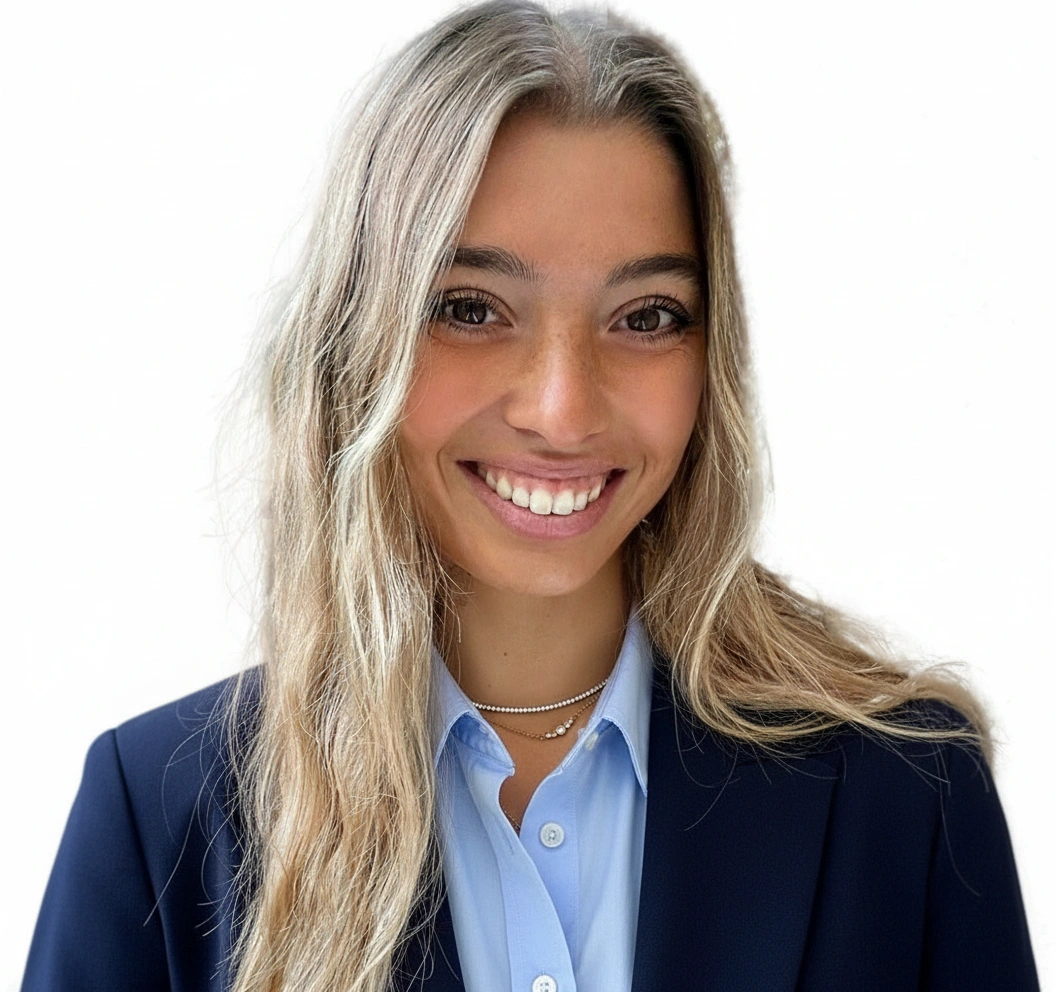
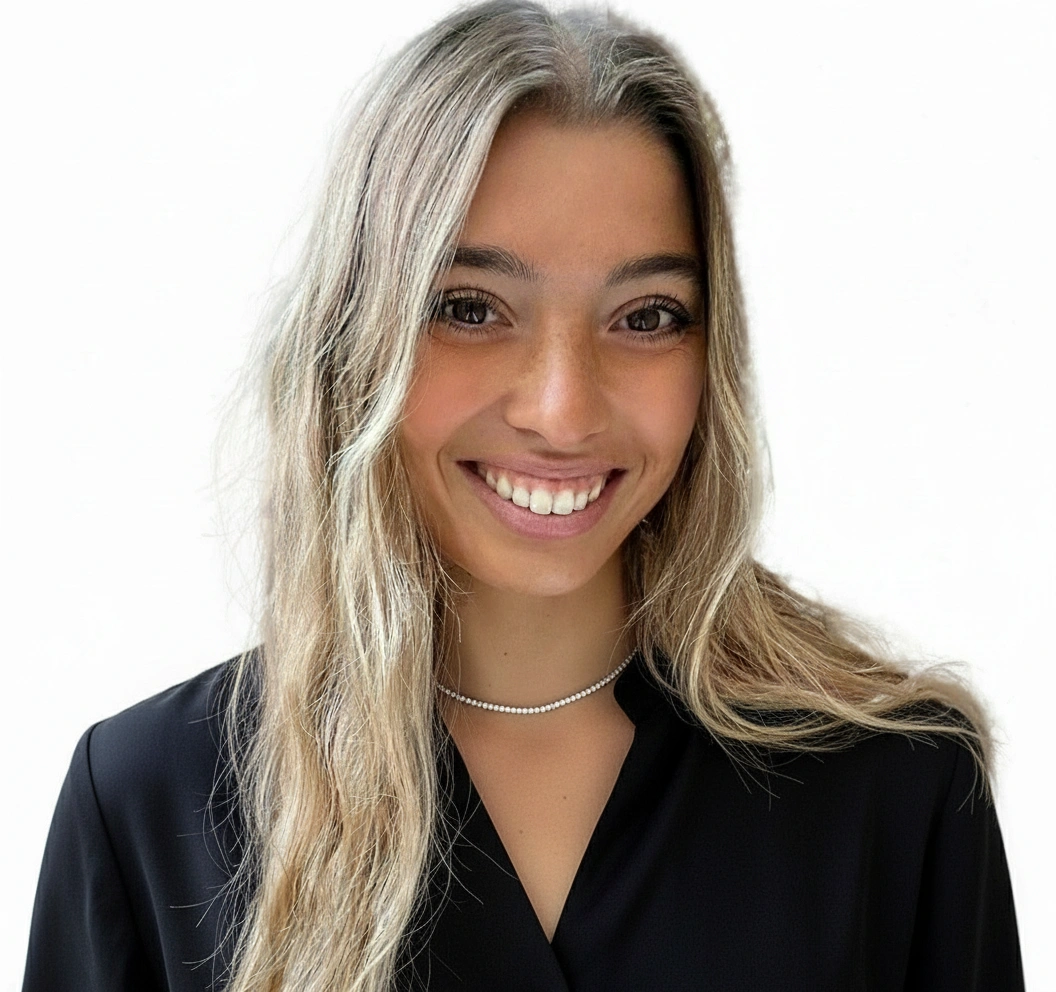
Refactor About and Experience components; update profile image and skills categories

diff --git a/src/components/Experience.jsx b/src/components/Experience.jsx
@@ -1,46 +1,113 @@
 import React from "react";
 import { motion } from "framer-motion";
 
-const experiences = [
+const roles = [
+  { title: "Sr. Software Engineer · Nomura", date: "Oct 2025 – Present" },
+  { title: "Graduate Software Engineer · Nomura", date: "Jul 2024 – Sep 2025" },
+  { title: "Technology Industrial Placement Intern · Nomura", date: "Jun 2022 – Jun 2023" }
+];
+
+const details = [
+  "Develop and maintain a Risk & Trading platform using Python and VBA backends integrated with Excel frontends.",
+  "Enhance Access Control services (Python backend, React frontend) and migrate legacy VB6 components to Python.",
+  "Lead development of a Generative AI solution that automates investor credit reports and improves risk management workflows.",
+  "Deliver high-quality, tested, and documented code across distributed systems and production environments.",
+  "Collaborate in Agile, globally distributed teams using Jira, Git, and CI/CD pipelines."
+];
+
+const education = [
   {
-    role: "Graduate Software Engineer · Nomura",
-    location: "London, UK",
-    date: "Jul 2024 – Present",
+    degree: "BSc (Hons) in Computer Science with Industrial Placement",
+    institution: "Newcastle University",
+    location: "Newcastle, UK",
+    date: "Sep 2020 – Jun 2024",
     details: [
-      "Develop and maintain a Risk & Trading platform (Python backend, VBA & Excel frontends).",
-      "Enhance Access Control services (Python backend, React frontend); migrate legacy VB6 components to Python.",
-      "Production support, code reviews, and Agile collaboration with global teams (Jira, Git)."
+      "First Class Honours · Sage & School of Computing Prize — Best Overall Performance (Stage 3)",
+      "Major Project: INFORM — AI-based food recognition & segmentation (Grade: 90/100)",
+      "Publication: SPIE Optics + Photonics 2024, San Diego, US"
     ]
   },
   {
-    role: "Technology Industrial Placement Intern · Nomura",
-    location: "London, UK",
-    date: "Jun 2022 – Jun 2023",
+    degree: "Título de Bachillerato — Science Track (Maths, Physics, IT, Technical Drawing)",
+    institution: "Madre Alberta School",
+    location: "Majorca, Spain",
+    date: "Sep 2019 – Jun 2020",
     details: [
-      "Backend/frontend improvements, production support, and Agile delivery."
+      "Bachillerato Average: 9.6/10 · University Entrance Grade (PBAU): 13.16/14"
+    ]
+  },
+  {
+    degree: "Academic Year Abroad — Amancio Ortega Foundation Scholar",
+    institution: "Liverpool Regional High School",
+    location: "Nova Scotia, Canada",
+    date: "Sep 2018 – Jun 2019",
+    details: [
+      "Full grant recipient under the Amancio Ortega Foundation Scholarship Program.",
+      "Ranked #1 in Grade 11 · First Class Honours Certificate (9.3/10)."
     ]
   }
 ];
 
+const achievements = [
+  "Sage & School of Computing Prize — Best Overall Performance (Stage 3), Newcastle University (2024)",
+  "Amancio Ortega Foundation Scholarship — Full grant to study in Canada (2018/19)",
+  "Team Full Royals Award — BUCS Conference Cup Champion, Newcastle University (2024)",
+  "Balearic Islands Basketball Teams — U14 (2016), U16 (2018), U22 (2023)",
+  "The Charles Ernst Award (MVP Girls Basketball) — Liverpool Regional High School (2019)",
+  "Academic Honours Certificate — Outstanding Academic Achievement, Balearic Islands Government (2018)",
+  "Summer Scientific Campus Scholarship in Artificial Intelligence, University of Salamanca — Spanish Government (2018)"
+];
+
 const Experience = () => (
   <motion.section
+    id="experience & education"
     className="bg-gray-100 rounded-xl shadow p-6"
     initial={{ opacity: 0, y: 20 }}
     whileInView={{ opacity: 1, y: 0 }}
     viewport={{ once: true }}
     transition={{ duration: 0.6 }}
   >
-    <h2 className="text-2xl font-bold mb-4 text-center">Experience</h2>
-    <div className="w-40 h-0.5 bg-gray-300 mx-auto mb-6 rounded text-justify"></div>
-    {experiences.map((exp, i) => (
-      <div key={i} className="mb-4">
-        <h3 className="font-semibold ">{exp.role}</h3>
-        <p className="text-gray-500 text-sm">{exp.location} · {exp.date}</p>
-        <ul className="list-disc list-inside mt-2 text-justify">
-          {exp.details.map((d, idx) => <li key={idx}>{d}</li>)}
-        </ul>
+    <h2 className="text-2xl font-bold mb-4 text-center">Experience & Education</h2>
+    <div className="w-40 h-0.5 bg-gray-300 mx-auto mb-6 rounded"></div>
+
+    {/* NOMURA EXPERIENCE */}
+    <div className="mb-8">
+      <h3 className="text-xl font-semibold mb-3">Professional Experience</h3>
+
+      <div className="mb-3">
+        {roles.map((r, i) => (
+          <p key={i} className="text-gray-700">
+            <strong>{r.title}</strong> · <span className="text-gray-500">{r.date}</span>
+          </p>
+        ))}
       </div>
-    ))}
+
+      <ul className="list-disc list-inside mt-2 text-gray-700 leading-relaxed text-justify">
+        {details.map((d, idx) => <li key={idx}>{d}</li>)}
+      </ul>
+    </div>
+
+    {/* EDUCATION */}
+    <div className="mb-8">
+      <h3 className="text-xl font-semibold mb-3">Education</h3>
+      {education.map((edu, i) => (
+        <div key={i} className="mb-4">
+          <h4 className="font-semibold">{edu.degree}</h4>
+          <p className="text-gray-500 text-sm">{edu.institution} — {edu.location} · {edu.date}</p>
+          <ul className="list-disc list-inside mt-2 text-gray-700 leading-relaxed text-justify">
+            {edu.details.map((d, idx) => <li key={idx}>{d}</li>)}
+          </ul>
+        </div>
+      ))}
+    </div>
+
+    {/* ACHIEVEMENTS */}
+    <div>
+      <h3 className="text-xl font-semibold mb-3">Awards & Achievements</h3>
+      <ul className="list-disc list-inside text-gray-700 leading-relaxed text-justify">
+        {achievements.map((a, i) => <li key={i}>{a}</li>)}
+      </ul>
+    </div>
   </motion.section>
 );
 

diff --git a/src/components/Skills.jsx b/src/components/Skills.jsx
@@ -2,47 +2,58 @@ import React from "react";
 import { motion } from "framer-motion";
 
 const skills = {
-  "Programming & Frameworks": [
+  "Programming Languages & Frameworks": [
     "Python",
-    "JavaScript (React)",
-    "Flask",
-    "VBA",
     "SQL",
+    "VBA",
+    "React",
+    "Flask",
+    "FastAPI",
     "Tkinter",
-    "Pytest"
+    "Streamlit",
+    "Gradio",
+    "SQLAlchemy"
   ],
-  "Data & ML": [
-    "NumPy",
-    "Pandas",
+  "Data Science & AI": [
     "Machine Learning",
     "Deep Learning",
     "Computer Vision",
-    "Image Processing"
+    "Image Processing",
+    "Generative AI",
+    "TensorFlow",
+    "PyTorch",
+    "Hugging Face",
+    "OpenCV",
+    "YOLO",
+    "CNN",
+    "Stable Diffusion",
+    "ControlNet",
+    "Scikit-Learn",
+    "ETL"
   ],
-  "Tools & Platforms": [
+  "Data Analysis & Visualization": [
+    "NumPy",
+    "Pandas",
+    "Matplotlib",
+    "Seaborn"
+  ],
+  "DevOps & Tools": [
     "Git",
     "GitHub",
-    "Jupyter Notebook",
-    "PyCharm",
-    "Visual Studio Code",
-    "Excel (Macros)",
+    "GitHub Actions",
     "Jira",
-    "CI/CD Pipelines"
-  ],
-  "Methodologies & Soft Skills": [
-    "Agile",
-    "Scrum",
-    "Software Testing & Documentation",
-    "Project Management",
-    "Analytical Thinking",
-    "Problem-Solving",
-    "Effective Communication",
-    "Team Collaboration"
+    "Docker",
+    "Jupyter Notebook",
+    "Google Colab",
+    "Visual Studio Code",
+    "PyCharm",
+    "Excel (Macros)"
   ]
 };
 
 const Skills = () => (
   <motion.section
+    id="skills"
     className="bg-gray-100 rounded-xl shadow p-6"
     initial={{ opacity: 0, y: 20 }}
     whileInView={{ opacity: 1, y: 0 }}

diff --git a/src/components/About.jsx b/src/components/About.jsx
@@ -27,17 +27,10 @@ const About = () => (
         <h2 className="text-2xl font-bold mb-4">About Me</h2>
         <div className="w-40 h-0.5 bg-gray-300 mb-6 rounded"></div>
         <p className="text-gray-700 leading-relaxed mb-6 text-justify">
-          Graduate Software Engineer with a <strong>First-Class Honours in Computer Science</strong> from Newcastle University.<br />
+          Sr. Software Engineer with a <strong>First-Class Honours in Computer Science</strong> from Newcastle University.<br />
           Researcher on the <strong>INFORM project</strong> — AI-based food recognition & segmentation — presented at 
           <em> SPIE Optics + Photonics 2024</em> and published in the <a href="https://doi.org/10.1117/12.3031247" className="text-blue-600 underline" target="_blank" rel="noopener noreferrer">SPIE Digital Library</a>.<br />
           Passionate about building production-ready systems that combine software engineering, AI, and computer vision.
-        </p>
-
-        {/* Education */}
-        <h3 className="text-xl font-semibold mb-2">Education</h3>
-        <p className="text-gray-700 leading-relaxed text-justify">
-          <strong>BSc (Hons) Computer Science with Industrial Placement</strong> — Newcastle University (2020–2024)<br />
-          First Class Honours · Best overall performance by a Stage 3 student
         </p>
       </div>
 

diff --git a/src/components/Navbar.jsx b/src/components/Navbar.jsx
@@ -1,6 +1,6 @@
 import React, { useState, useEffect } from "react";
 
-const sections = ["about", "experience", "projects", "skills", "contact"];
+const sections = ["about", "experience & education", "projects", "skills", "contact"];
 
 const Navbar = () => {
   const [active, setActive] = useState("about");
